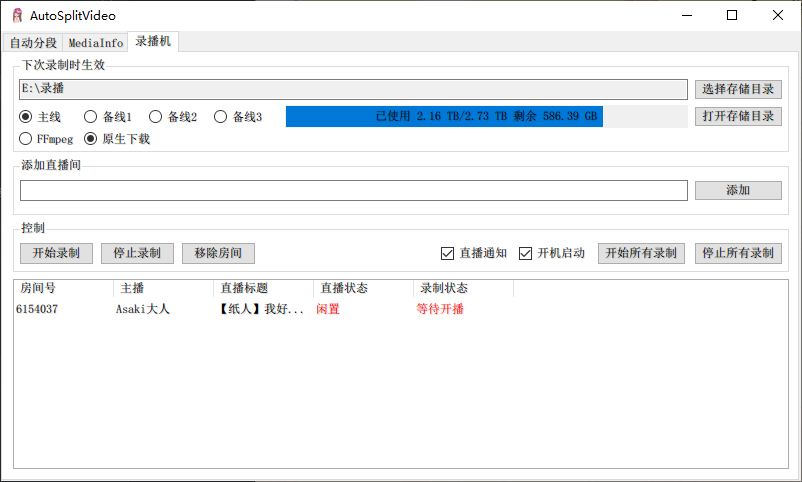
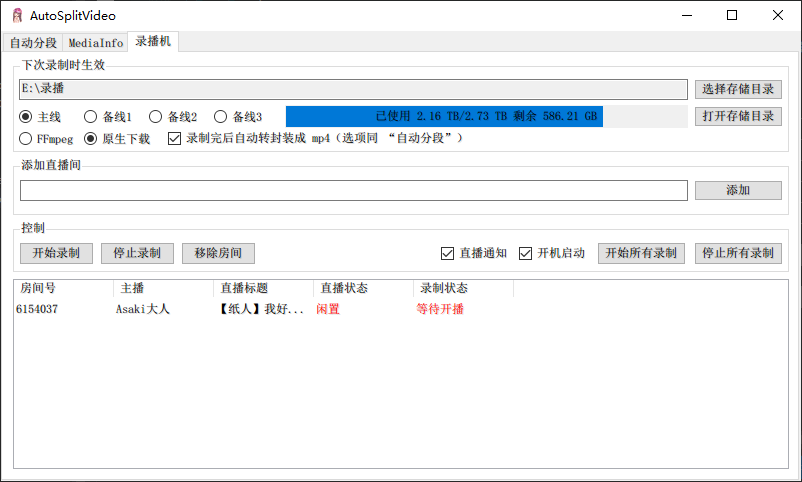
1.4
fix #1

Changed region(s): [[0.3117, 0.0, 1.0, 1.0], [0.2182, 0.249, 0.5611, 0.3112], [0.6858, 0.2178, 0.717, 0.249]]

diff --git a/README.md b/README.md
@@ -1,7 +1,10 @@
 # AutoSplitVideo
-bilibili 直播录制和一键剪辑
+bilibili 直播录制和一键分段
 
-支持多直播间录制
+支持
+
+* 多直播间录制
+* 自动转封装、自动分段
 
 只能最高画质（因为估计也不会用到低画质）
 
